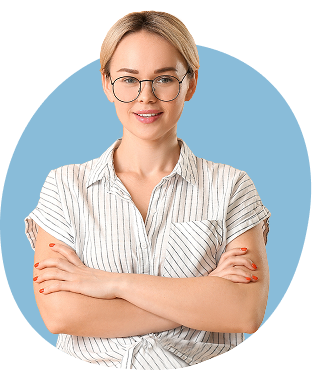
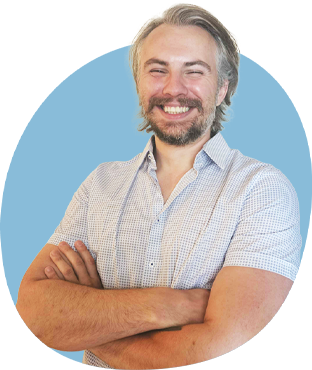
changed img

diff --git a/src/app/component/header/header.scss b/src/app/component/header/header.scss
@@ -10,6 +10,10 @@
     align-items: center;
 }
 
+.extra-wide{
+    display: none;
+}
+
 .screen{
     &_mobile{
         width: 100%;
@@ -173,6 +177,13 @@
 }
 
 @media (min-width:2000px){
+    .extra-wide{
+        height: 560px;
+        display: flex;
+    }
+    .user-img{
+        display: none;
+    }
     .screen{
         &_desktop{
             align-items: center;

diff --git a/src/app/component/header/header.html b/src/app/component/header/header.html
@@ -35,6 +35,7 @@
     
     <!--Desktop View-->
     <div class="screen_desktop only_desktop">
+        <img class="extra-wide" src="assets/img/user-mobile.png" alt="">
         <div class="user-img nav-space">
             <img class="user-img_img" src="assets/img/user.png" alt="">
         </div>
